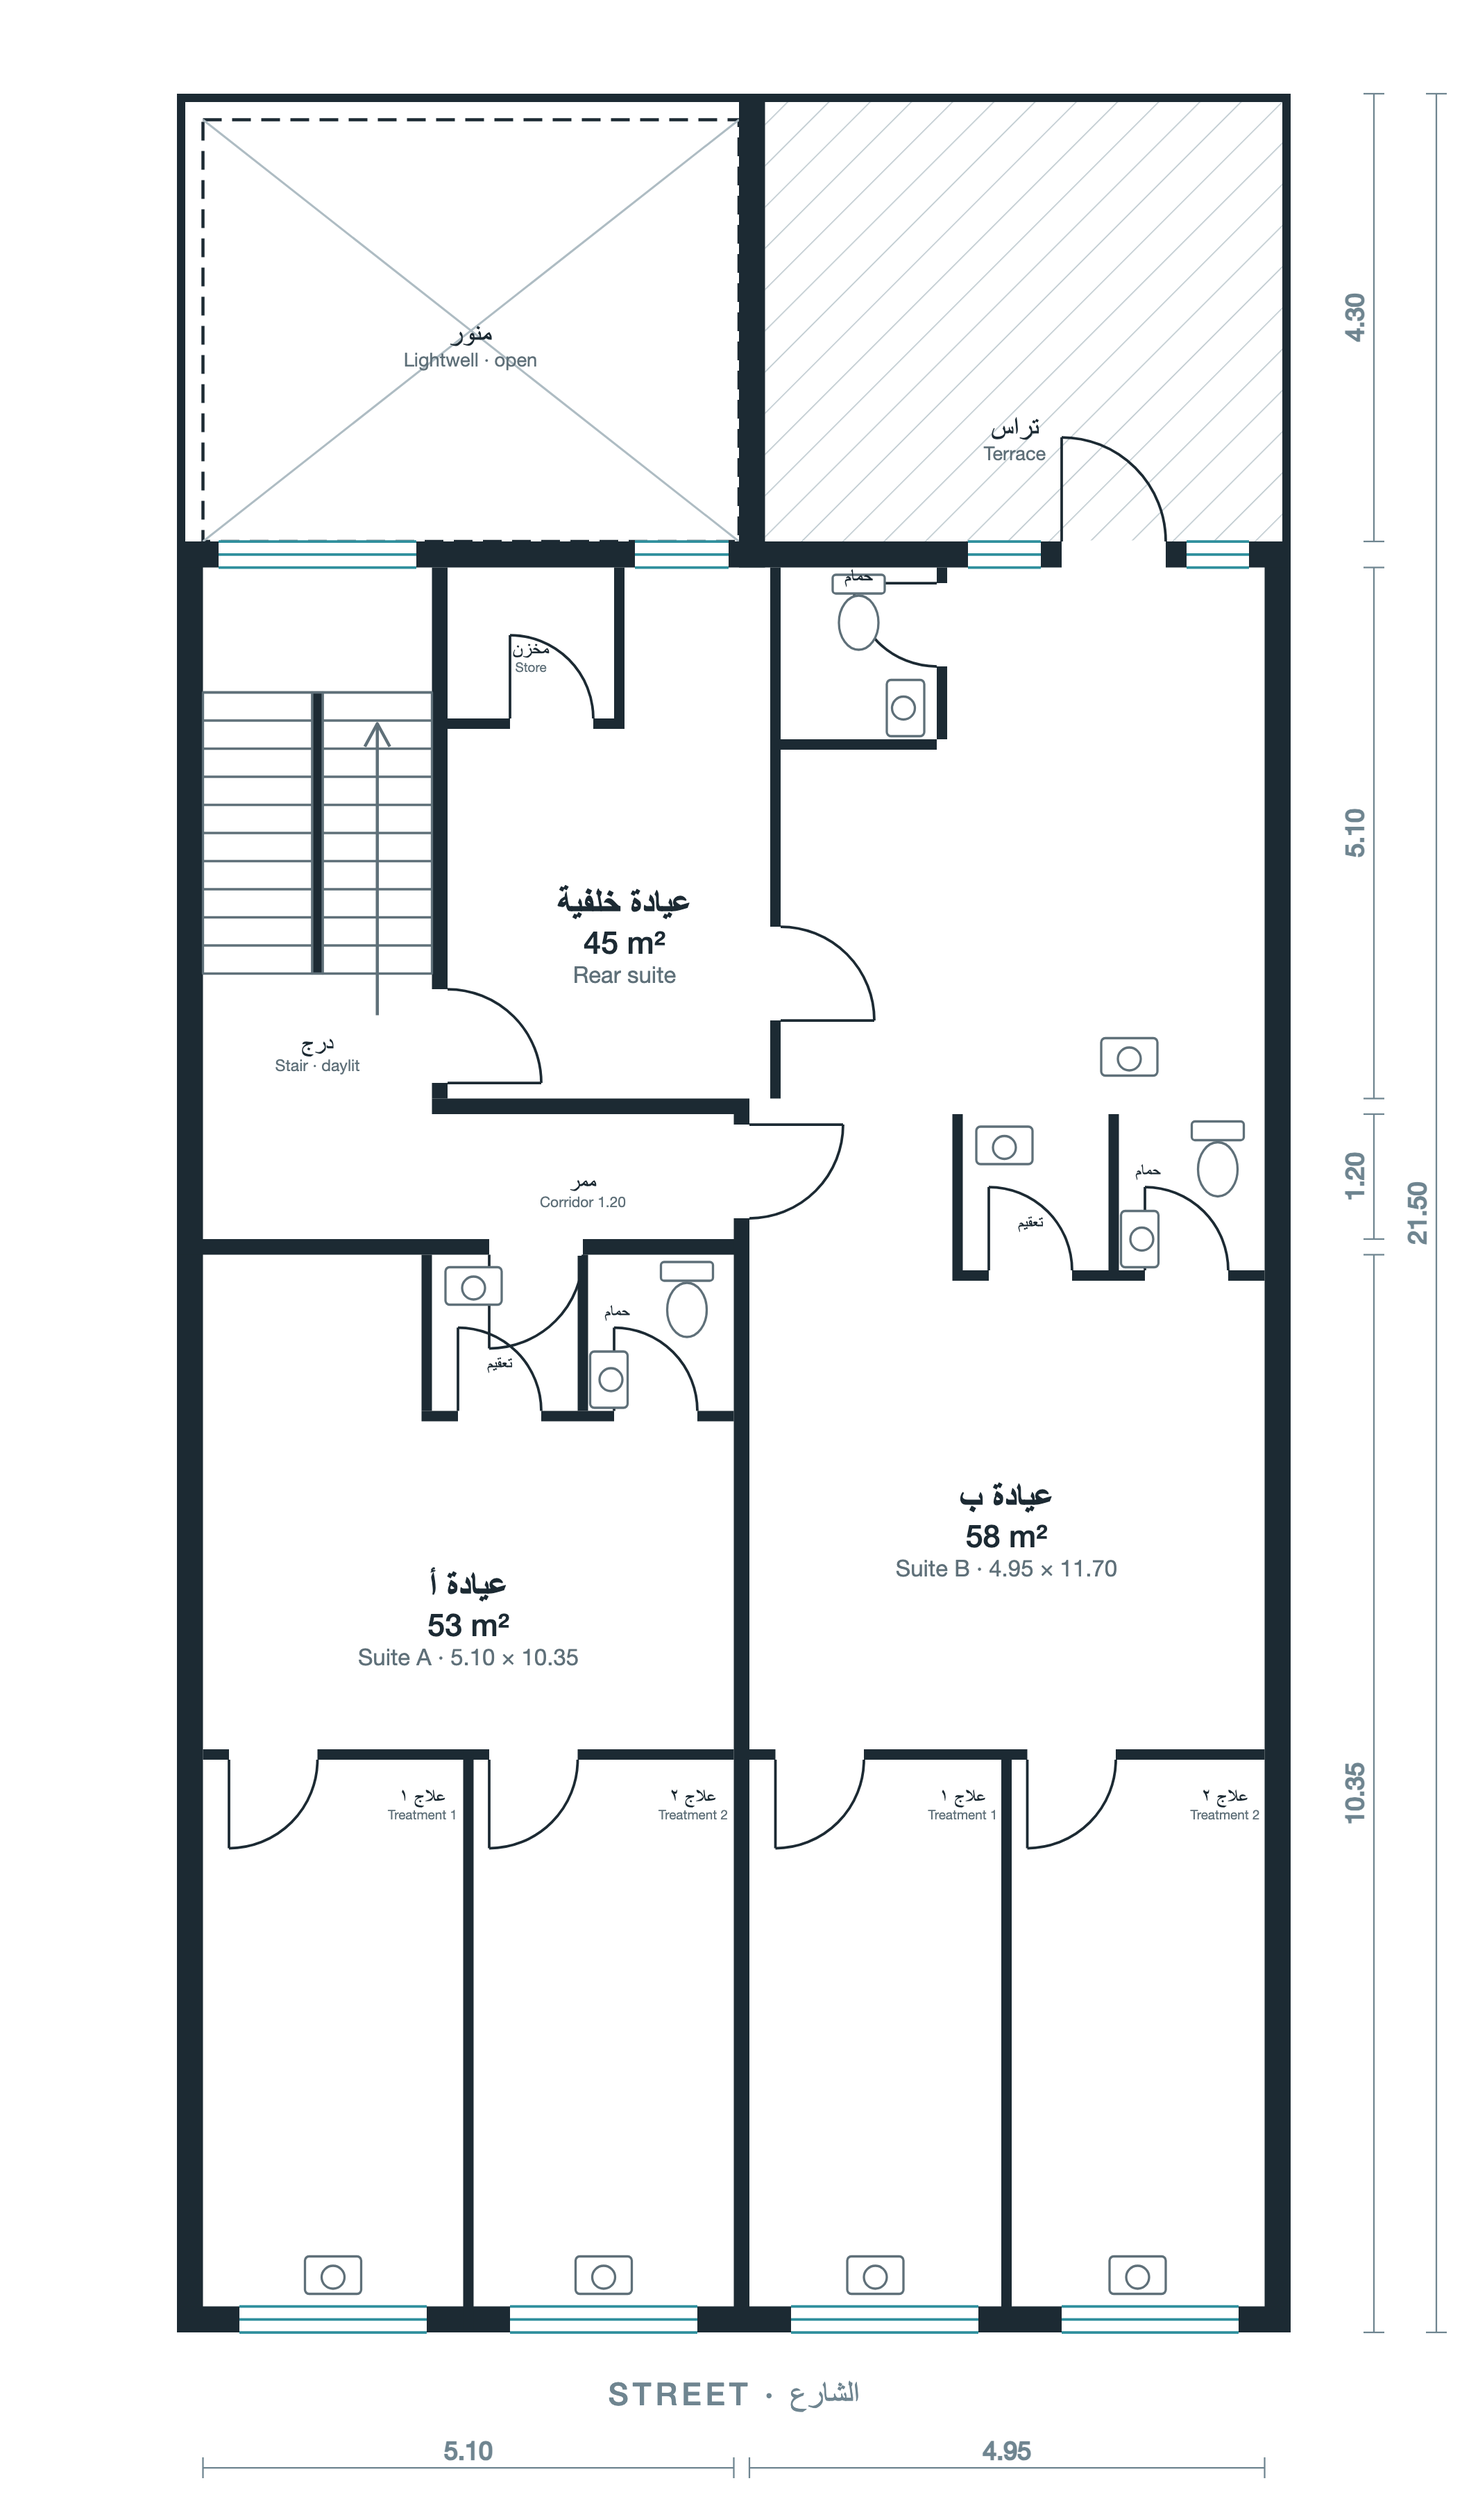
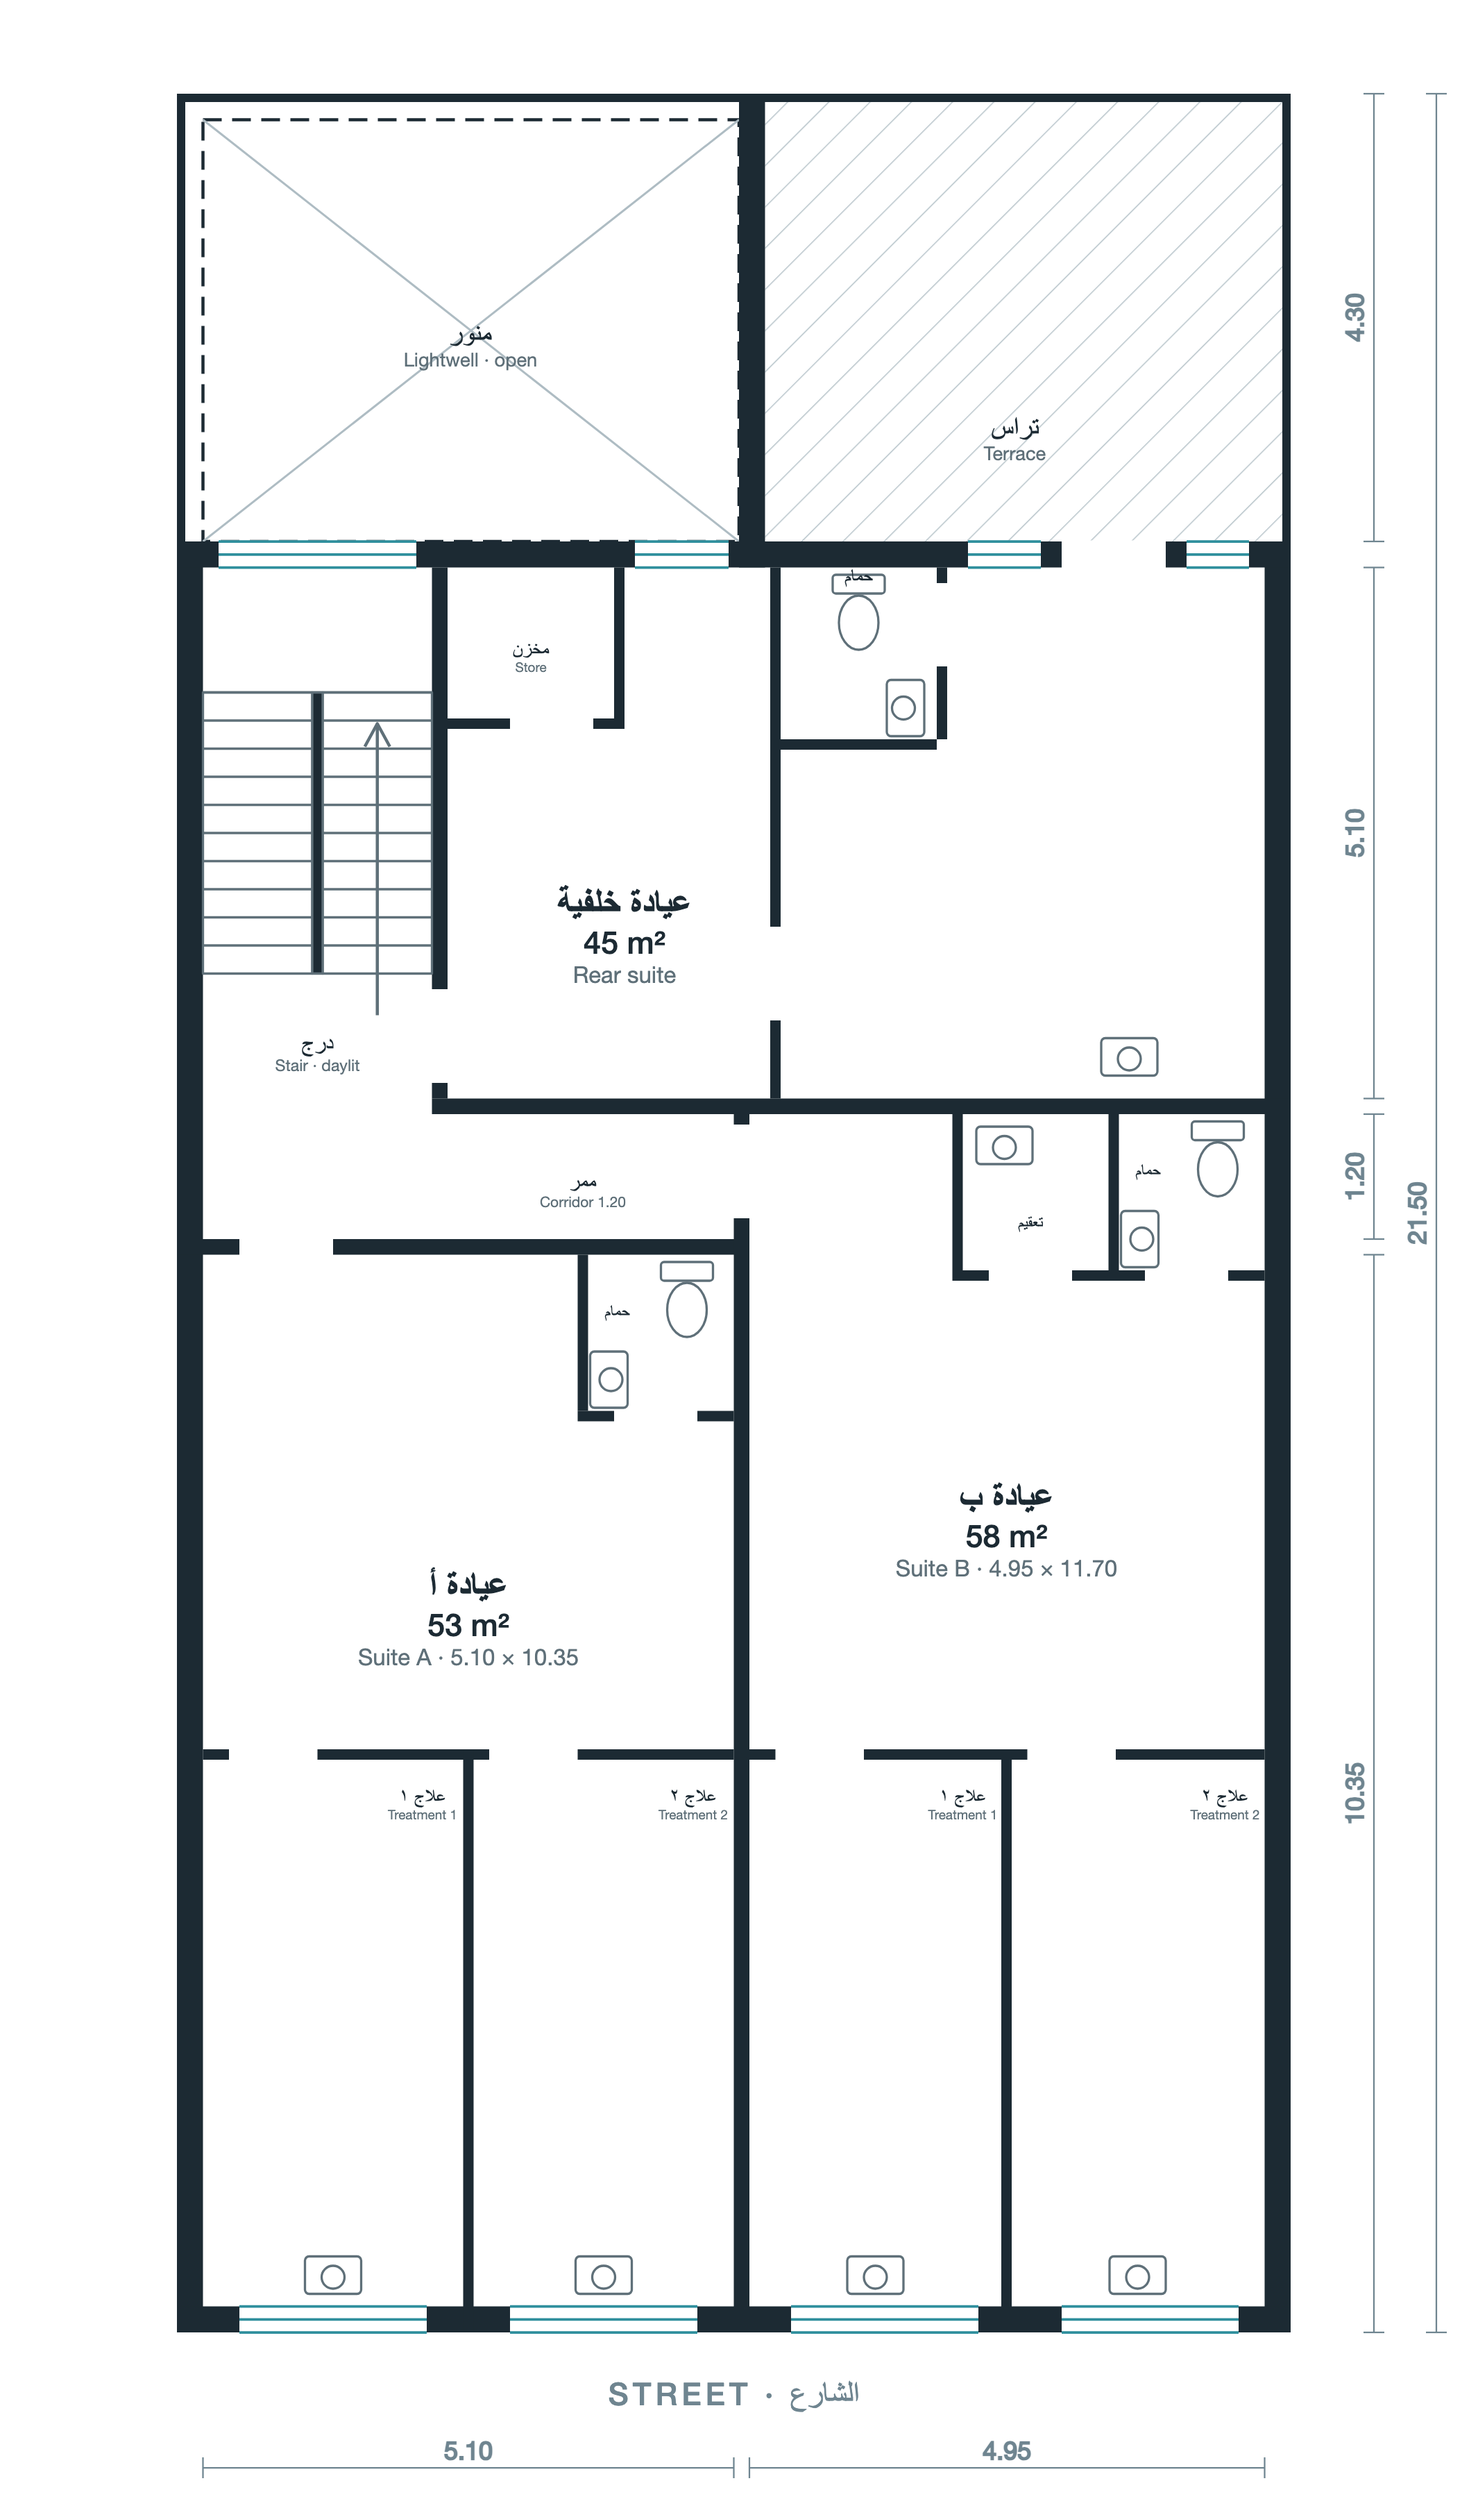
Plain door openings, and two fixes on the Option 3 typical floor
Doors on the Option 3 plans are drawn as openings only, without leaf or
swing. The wall between the rear suite and suite B, missing east of the
corridor, is back. Suite A's door moved to the left so it opens into the
waiting room; its sterilisation room, which the door had been opening into,
is gone. Suite B keeps its sterilisation room.

Claude-Session: https://claude.ai/code/session_01LqRNDqLmS9HuGRKSh3RGhW

Changed region(s): [[0.4958, 0.4356, 0.8676, 0.4667], [0.2789, 0.4978, 0.4028, 0.5911], [0.1549, 0.4978, 0.2169, 0.5289]]

diff --git a/option-3.html b/option-3.html
@@ -1092,9 +1092,9 @@
         <img src="option-3/plan-typical.svg" width="1420" height="2400"
              alt="Option 3 typical upper floor plan: two street suites of 53 and 58 square metres each with two treatment rooms, a 45 square metre rear suite with terrace, a 3 metre corridor and the stair daylit from the open lightwell">
         <figcaption>
-          <strong>Typical floor.</strong> Three suites instead of four, with the same net area. Suites A (5.10 m wide) and B (4.95 m) face the street, each a waiting room with reception, WC and sterilisation by the door and two treatment rooms at the window.
+          <strong>Typical floor.</strong> Three suites instead of four, with the same net area. Suites A (5.10 m wide) and B (4.95 m) face the street, each a waiting room with the WC by the door and two treatment rooms at the window; suite B also has a sterilisation room.
           The 45 m² rear suite keeps its terrace. The corridor is 3 m long and the stair is daylit from the open lightwell on every floor.
-          <span class="ar">الطابق المتكرر: ثلاث عيادات بدل أربع بالمساحة الصافية نفسها. العيادتان أ (عرض ٥٫١٠ م) و ب (٤٫٩٥ م) تطلان على الشارع، كل منهما غرفة انتظار مع استقبال وحمام وتعقيم عند المدخل وغرفتا علاج عند النافذة. العيادة الخلفية ٤٥ م² تحتفظ بتراسها. الممر بطول ٣ م والدرج مضاء من المنور المفتوح في كل طابق</span>
+          <span class="ar">الطابق المتكرر: ثلاث عيادات بدل أربع بالمساحة الصافية نفسها. العيادتان أ (عرض ٥٫١٠ م) و ب (٤٫٩٥ م) تطلان على الشارع، كل منهما غرفة انتظار مع حمام عند المدخل وغرفتا علاج عند النافذة، وفي العيادة ب غرفة تعقيم أيضاً. العيادة الخلفية ٤٥ م² تحتفظ بتراسها. الممر بطول ٣ م والدرج مضاء من المنور المفتوح في كل طابق</span>
         </figcaption>
       </figure>
     </div>

diff --git a/option-3/plans.py b/option-3/plans.py
@@ -82,7 +82,7 @@ def clinic(p, cross=False):
 
 
 def ground():
-    p = Plan(); p.furniture = False
+    p = Plan(); p.furniture = False; p.door_swings = False
     shell_ground(p)
     clinic(p)
     # stair, hall glazed onto the lightwell
@@ -164,7 +164,7 @@ def ground_central():
     """The passage on the facade's axis; at its end a corridor 1.35 m deep, cut
     from the clinic's front edge, turns left to the stair. The clinic is
     entered from the axis. Both shops keep their full depth."""
-    p = Plan(); p.furniture = False
+    p = Plan(); p.furniture = False; p.door_swings = False
     shell_ground(p)
     clinic(p, cross=True)
     p.glass_h(40, 230, 430, 455)
@@ -186,16 +186,22 @@ def ground_central():
     return p
 
 
-def suite_dental(p, a, b, ytop, door, name_ar, area, name_en):
+def suite_dental(p, a, b, ytop, door, name_ar, area, name_en, steril=True):
     """Street suite a..b from the corridor wall at ytop: waiting with reception,
     WC and sterilisation by the door, two treatment rooms at the window."""
     w = b - a
     # WC and sterilisation in the top-right corner
-    p.vwall(b - 300, ytop, ytop + 150, IW); p.hwall(b - 300, b, ytop + 150, IW); p.vwall(b - 150, ytop, ytop + 150, IW)
-    p.door_h(b - 265, ytop + 150, ytop + 160, 80, "l", "u"); p.door_h(b - 115, ytop + 150, ytop + 160, 80, "l", "u")
-    p.counter(b - 295, ytop + 5, 140, 50); p.basin(b - 250, ytop + 30, 0); p.rect(b - 200, ytop + 8, 42, 42, rx=4)
+    if steril:
+        p.vwall(b - 300, ytop, ytop + 150, IW); p.hwall(b - 300, b, ytop + 150, IW)
+        p.door_h(b - 265, ytop + 150, ytop + 160, 80, "l", "u")
+        p.counter(b - 295, ytop + 5, 140, 50); p.basin(b - 250, ytop + 30, 0); p.rect(b - 200, ytop + 8, 42, 42, rx=4)
+        p.room(b - 225, ytop + 110, "تعقيم", None, 16)
+    else:
+        p.hwall(b - 150, b, ytop + 150, IW)
+    p.vwall(b - 150, ytop, ytop + 150, IW)
+    p.door_h(b - 115, ytop + 150, ytop + 160, 80, "l", "u")
     p.toilet(b - 45, ytop + 45, 0); p.basin(b - 120, ytop + 120, 270)
-    p.room(b - 225, ytop + 110, "تعقيم", None, 16); p.room(b - 112, ytop + 60, "حمام", None, 16)
+    p.room(b - 112, ytop + 60, "حمام", None, 16)
     # waiting
     if door == "top":
         p.counter(a + 15, ytop + 110, 150, 55); p.chair(a + 90, ytop + 195, 0)
@@ -217,7 +223,7 @@ def suite_dental(p, a, b, ytop, door, name_ar, area, name_en):
 
 
 def typical():
-    p = Plan(); p.furniture = False
+    p = Plan(); p.furniture = False; p.door_swings = False
     p.vwall(0, 430, D, OW); p.vwall(W - OW, 430, D, OW); p.hwall(0, W, 430, 25)
     p.vwall(0, 0, 430, 8); p.vwall(W - 8, 0, 430, 8); p.hwall(0, W, 0, 8)
     p.vwall(540, 0, 455, 25); p.void(25, 25, 540, 430); p.hatch(565, 8, W - 8, 430, "terrace")
@@ -226,7 +232,7 @@ def typical():
     p.door_h(850, 430, 455, 100, "l", "u"); p.glass_h(970, 1030, 430, 455)
     # stair, rear suite, short corridor, two street suites
     p.vwall(245, 455, 965, PW)
-    p.hwall(245, 550, 965, PW)
+    p.hwall(245, W, 965, PW)
     p.hwall(0, 550, 1100, PW)
     p.vwall(535, 980, D, PW)
     p.hwall(0, W, 2125, 25)
@@ -249,8 +255,8 @@ def typical():
     p.room(805, 330, "تراس", "Terrace", 26); p.room(282, 240, "منور", "Lightwell · open", 26)
 
     # street suites
-    p.door_h(300, 1100, 1115, 90, "l", "d")
-    suite_dental(p, 25, 535, 1115, "top", "عيادة أ", "53 m²", "Suite A · 5.10 × 10.35")
+    p.door_h(60, 1100, 1115, 90, "l", "d")
+    suite_dental(p, 25, 535, 1115, "top", "عيادة أ", "53 m²", "Suite A · 5.10 × 10.35", steril=False)
     p.door_v(535, 550, 990, 90, "t", "r")
     suite_dental(p, 550, 1045, 980, "left", "عيادة ب", "58 m²", "Suite B · 4.95 × 11.70")
 

diff --git a/option-2/plans.py b/option-2/plans.py
@@ -41,6 +41,7 @@ class Plan:
     def __init__(self):
         self.L = {k: [] for k in LAYERS}
         self.furniture = True   # False: draw walls, doors, sanitary fixtures and landscape only
+        self.door_swings = True # False: doors are plain openings, no leaf or arc
 
     def add(self, layer, s):
         self.L[layer].append(s)
@@ -69,6 +70,7 @@ class Plan:
         lx, ly = hx, ym + dy * w
         ex, ey = hx + dx * w, ym
         sweep = 1 if (hinge == "r") != (swing == "u") else 0
+        if not self.door_swings: return
         self.add("door", f'<line x1="{hx}" y1="{ym}" x2="{lx}" y2="{ly}"/>'
                          f'<path d="M{lx} {ly} A{w} {w} 0 0 {sweep} {ex} {ey}"/>')
 
@@ -82,6 +84,7 @@ class Plan:
         lx, ly = xm + dx * w, hy
         ex, ey = xm, hy + dy * w
         sweep = 1 if (hinge == "t") == (swing == "r") else 0
+        if not self.door_swings: return
         self.add("door", f'<line x1="{xm}" y1="{hy}" x2="{lx}" y2="{ly}"/>'
                          f'<path d="M{lx} {ly} A{w} {w} 0 0 {sweep} {ex} {ey}"/>')
 
